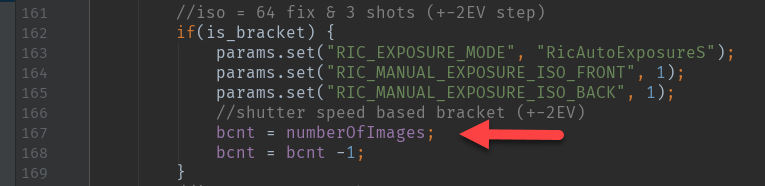
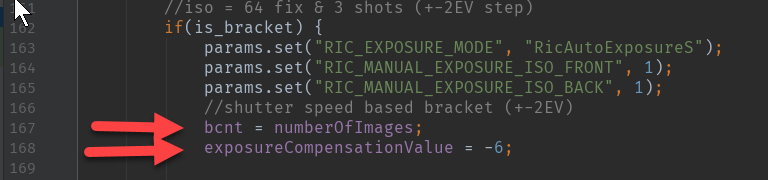
Deployed 402e0e9 with MkDocs version: 0.17.3

diff --git a/fisheye/index.html b/fisheye/index.html
@@ -771,8 +771,8 @@
 </li>
         
           <li class="md-nav__item">
-  <a href="#3-reset-bracket-count" title="3. Reset Bracket Count" class="md-nav__link">
-    3. Reset Bracket Count
+  <a href="#3-reset-bracket-count-and-exposurecompensationvalue" title="3. Reset Bracket Count and exposureCompensationValue" class="md-nav__link">
+    3. Reset Bracket Count and exposureCompensationValue
   </a>
   
 </li>
@@ -1309,8 +1309,8 @@
 </li>
         
           <li class="md-nav__item">
-  <a href="#3-reset-bracket-count" title="3. Reset Bracket Count" class="md-nav__link">
-    3. Reset Bracket Count
+  <a href="#3-reset-bracket-count-and-exposurecompensationvalue" title="3. Reset Bracket Count and exposureCompensationValue" class="md-nav__link">
+    3. Reset Bracket Count and exposureCompensationValue
   </a>
   
 </li>
@@ -1662,13 +1662,19 @@ will give you a feel for how HDRI can help with lighting and perspective.</p>
 <p>Under <code>app/java/com.theta360.pluginapplication</code>, locate <code>MainActivity</code>.</p>
 <p><img alt="MainActivity" src="../example/img/fisheye/mainactivity.png" /></p>
 <h4 id="2-add-variables-for-numberofimages-and-for-exposurecompensationvalue">2. Add Variables for NumberOfImages and for ExposureCompensationValue</h4>
-<p>In <code>MainActivity.java</code>, add an integer variable called numberOfImages and set the value to 7.
+<p>In <a href="https://github.com/codetricity/theta-7-image-dual-fisheye/blob/master/app/src/main/java/com/theta360/pluginapplication/MainActivity.java">MainActivity.java</a>, add an integer variable called numberOfImages and set the value to 7.
 Add a second variable for ExposureCompensationValue and set the value to -6. Later in the 
 tutorial, we will use this variable to move the exposure compensation from -6 to +6.</p>
 <p><img alt="NumberOfImages" src="../example/img/fisheye/numberOfImages.png" /></p>
-<h4 id="3-reset-bracket-count">3. Reset Bracket Count</h4>
+<h4 id="3-reset-bracket-count-and-exposurecompensationvalue">3. Reset Bracket Count and exposureCompensationValue</h4>
 <p>At roughly line 167, reset the variable bcnt to the numberOfImages.</p>
+<p>Set exposureCompensationValue to -6.</p>
 <p><img alt="Reset Bracket Count" src="../example/img/fisheye/reset-bcnt.png" /></p>
+<p>In single shot mode, the exposureCompensation will be zero.</p>
+<p><img alt="Single shot" src="../example/img/fisheye/exposureCompensationZero.png" /></p>
+<p>If you have any problems following this example, you can also copy and
+paste the relevant sections from the completed file on GitHub 
+<a href="https://github.com/codetricity/theta-7-image-dual-fisheye/blob/master/app/src/main/java/com/theta360/pluginapplication/MainActivity.java">MainActivity.java</a>.</p>
 <h4 id="4-locate-nextshutter">4. Locate nextShutter()</h4>
 <p>At roughly line 192, identify the section for <code>nextShutter()</code></p>
 <p><img alt="nextShutter()" src="../example/img/fisheye/next-shutter.png" /></p>
